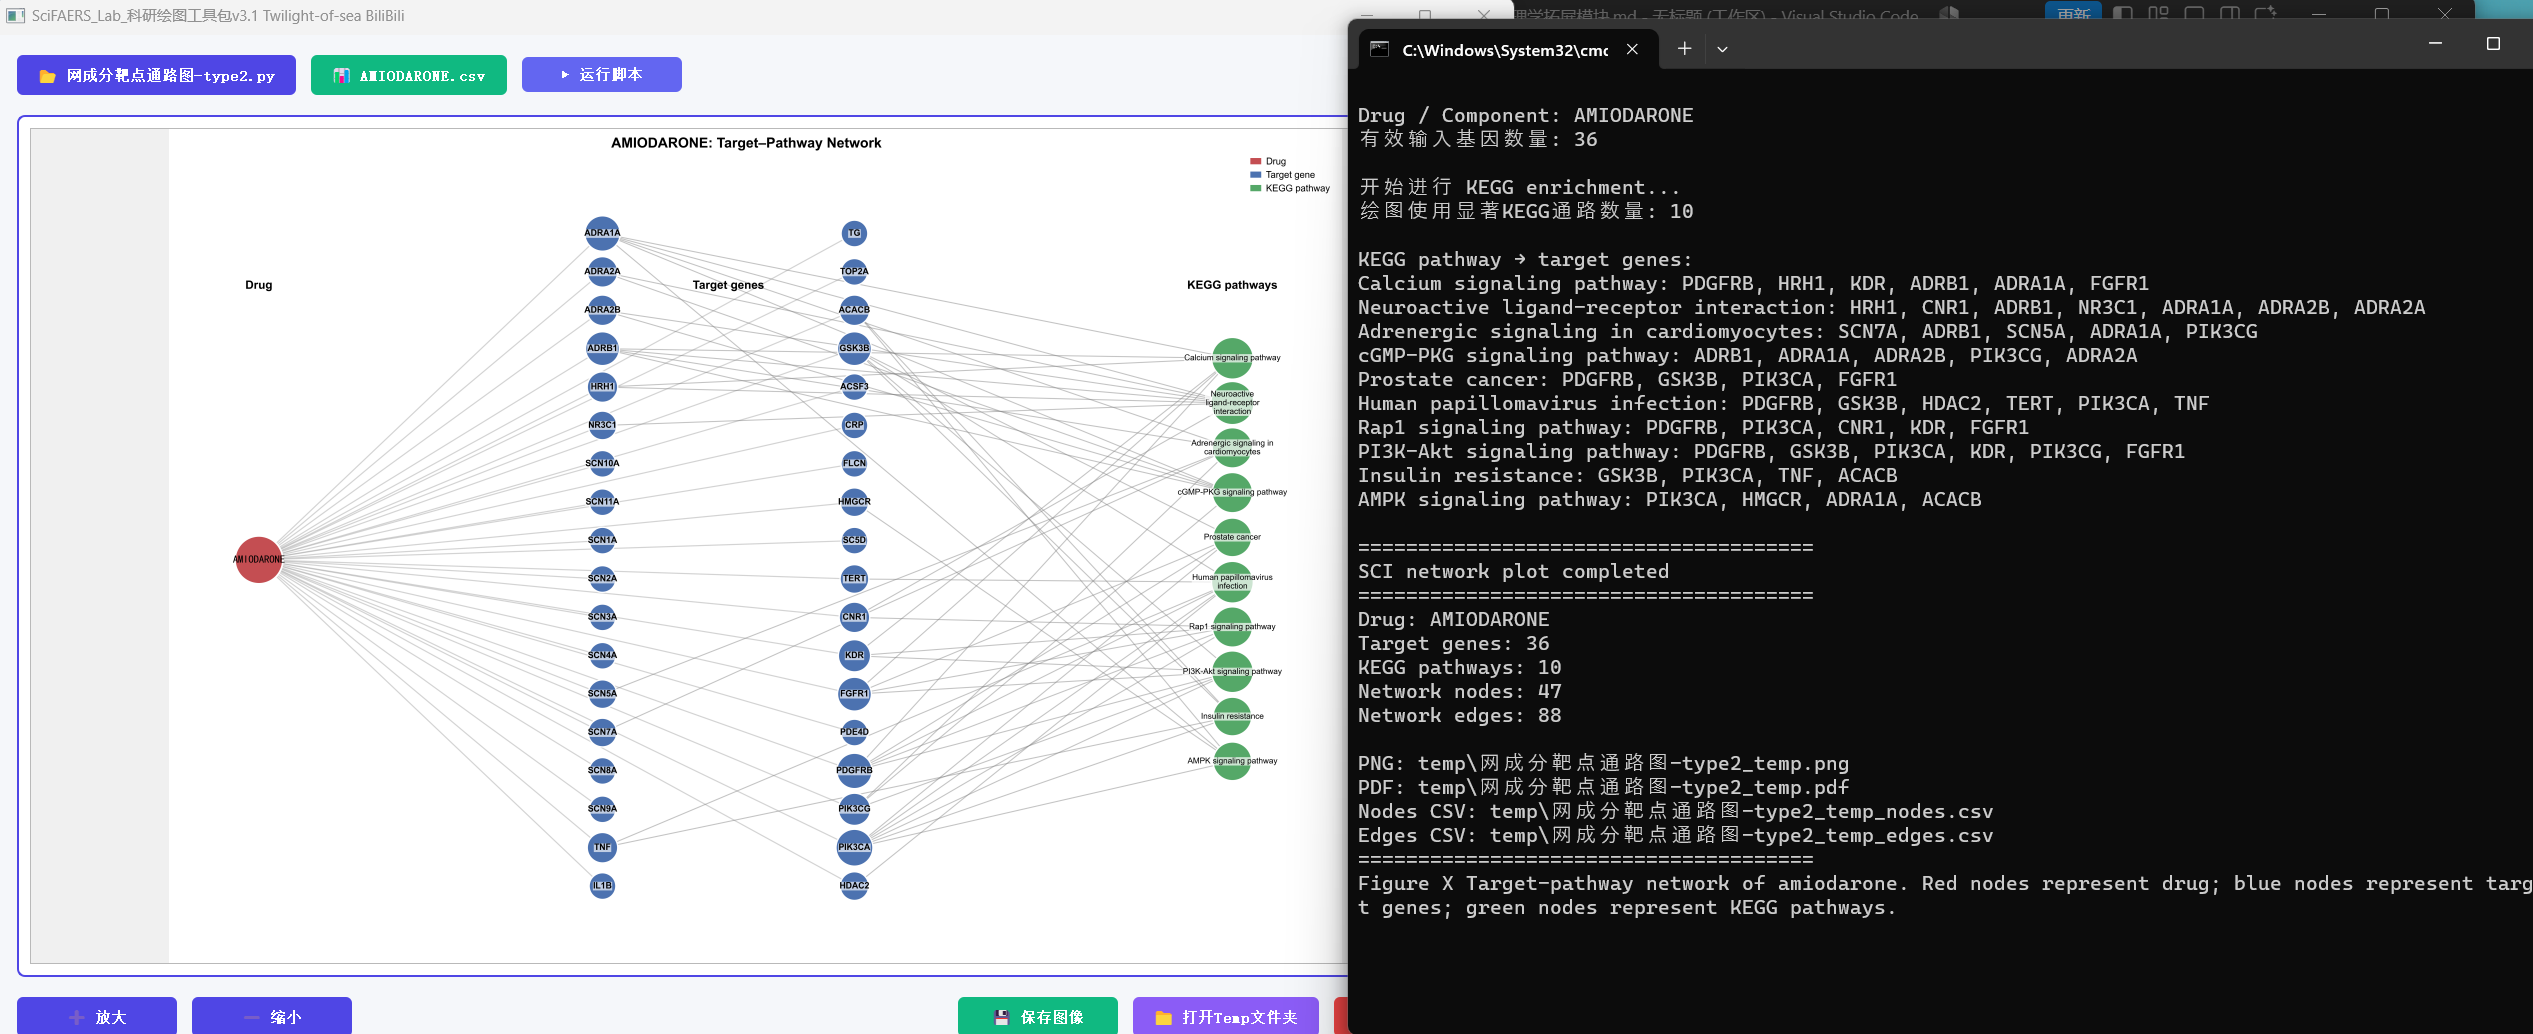
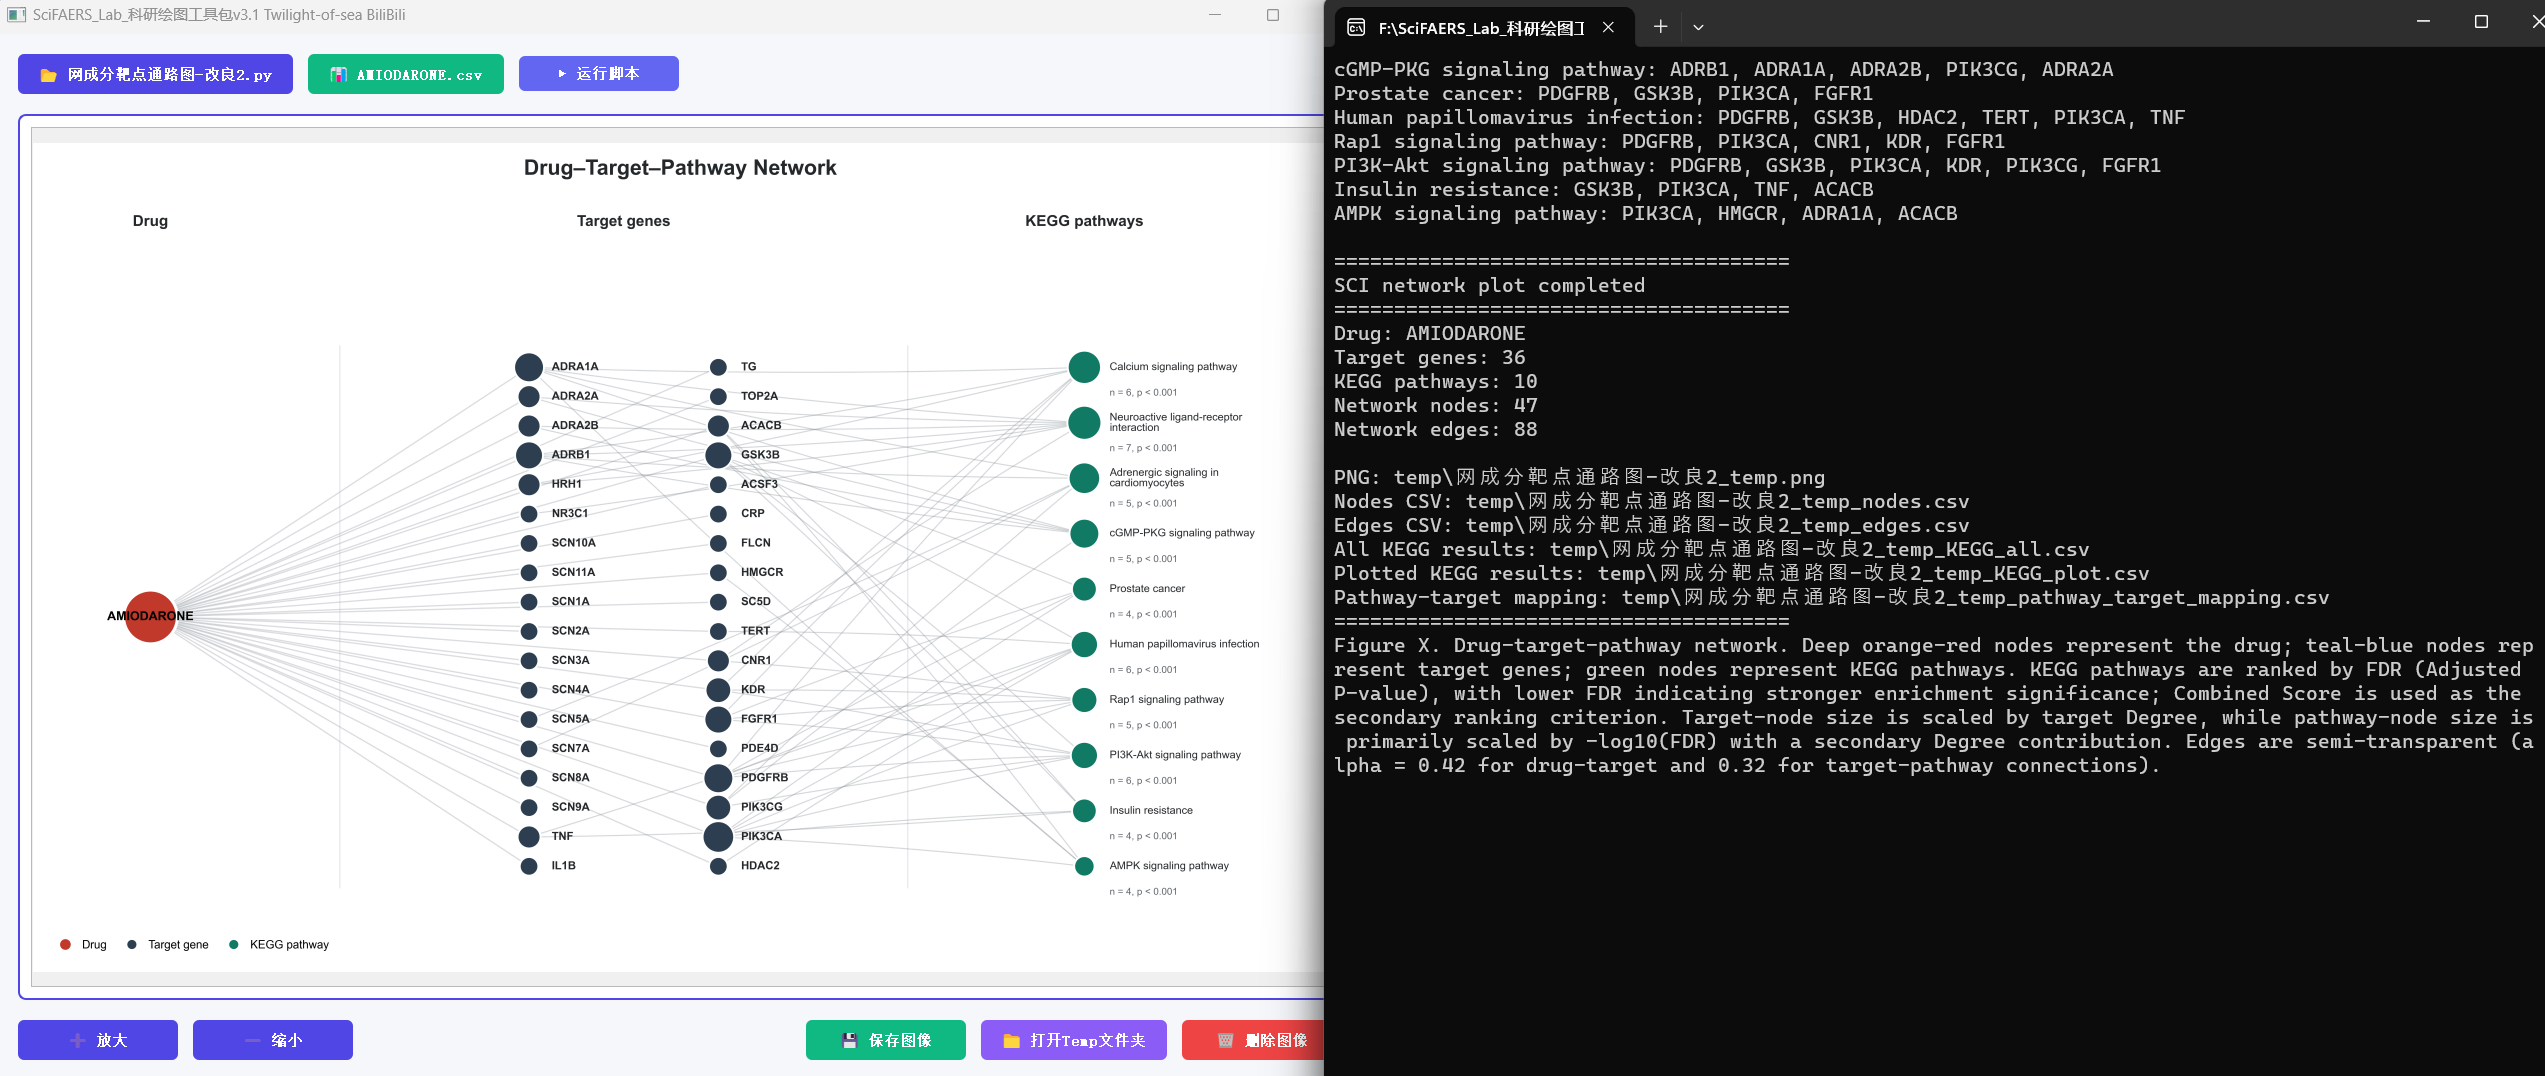
更新网络药理学相关模块

Changed region(s): [[0.0, 0.0, 1.0, 1.0], [0.0312, 0.8665, 0.1248, 0.8975], [0.4054, 0.1857, 0.4366, 0.2166]]

diff --git a/旧物/网络药理学拓展模块.md b/旧物/网络药理学拓展模块.md
@@ -86,15 +86,16 @@
 ### 四、药物-靶点-通路网路图绘制
 1. 打开绘图工具包，选择成分靶点KEGG通路网络图绘制脚本，一键出图，支持保存为png/pdf/svg/eps/tiff格式
 
-   - <img src="../pic/成分靶点通路网络图.png" alt="界面" width="550">   
-   - <img src="../pic/网成分靶点通路图_temp.png" alt="界面" width="350">
+   - <img src="../pic/成分靶点通路网络图.png" alt="界面" width="350">   
+   - <img src="../pic/网成分靶点通路图_temp.png" alt="界面" width="550">
   
 ---
 ### 五、构建PPI蛋白作用网络
 1. 打开绘图工具包，选择蛋白互作网络构建与算法赋分脚本，点击运行，自动请求STRING数据库，完成蛋白网络构建和Degree/MCC/MNC/DMNC/EPC算法打分。
 2. 自由设定Hub靶点筛选阈值：在至少 N 种算法中得分进入Top10的靶点被定为Hub基因，N取值范围0~5
-   - <img src="../pic/蛋白互作和筛选hub.png" alt="界面" width="550">
-   - <img src="../pic/网蛋白互作网络构建与算法赋分_temp.png" alt="界面" width="550">
+   - <img src="../pic/蛋白互作和筛选hub.png" alt="界面" width="450">
+   - <img src="../pic/蛋白互作网络绘制PPI.png" alt="界面" width="450">
+   - <img src="../pic/网蛋白互作网络构建与算法赋分改良_temp.png" alt="界面" width="550">
 ---
 ### 结果解读
 在网络药理学研究的结果生物学解读中，主要包含三方面内容：
